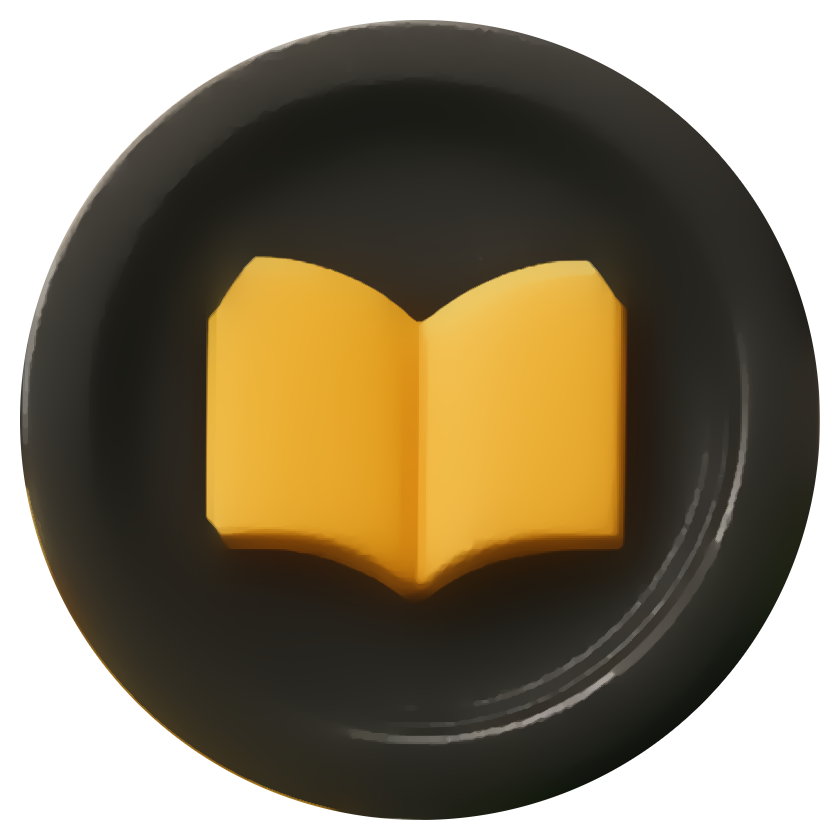
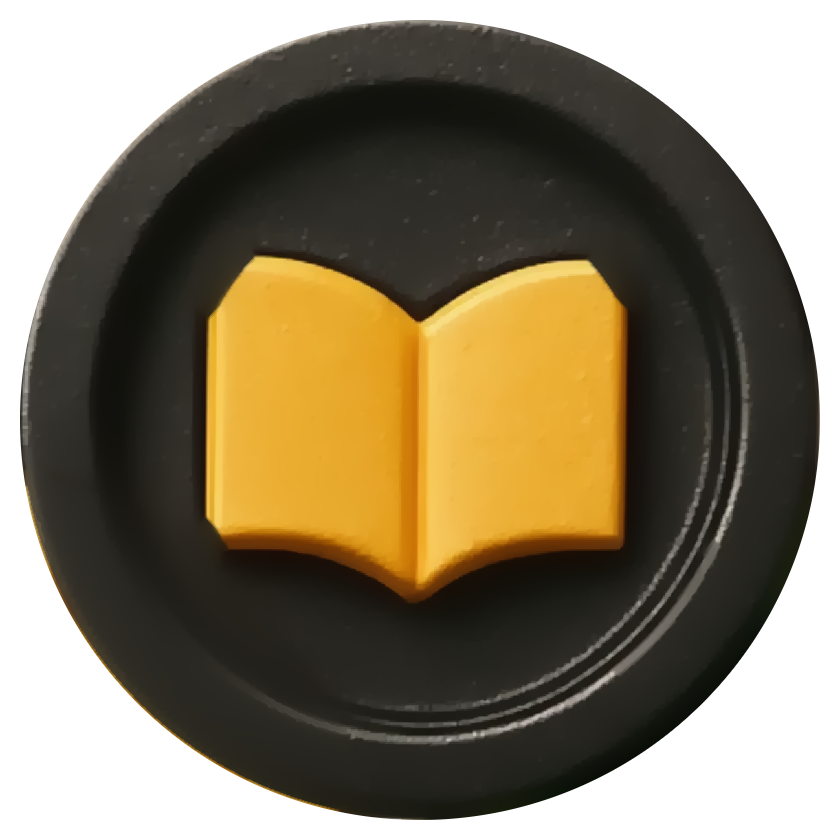
Revert "Monedele: granulatia scoasa complet din imaginea coapta"
This reverts commit 6bd98f285d42c0112400e89e7d7234b7de093a61.

diff --git a/assets-src/coins-original/smooth.py b/assets-src/coins-original/smooth.py
@@ -1,18 +1,16 @@
-"""Scoate complet granulatia 'coaja de portocala' coapta in sprite-urile monedelor, pastrand
-muchiile (inelul, desenul). Trei treceri de filtru edge-preserving (domain transform), din ce
-in ce mai fine, apoi un median care curata ce a mai ramas. Doar pe culoare; alfa ramane.
-Sursele originale stau in assets-src/coins-original."""
+"""Netezeste granulatia 'coaja de portocala' coapta in sprite-urile monedelor, pastrand muchiile
+(inelul, desenul). Filtru edge-preserving (domain transform) in doua treceri, doar pe culoare;
+alfa ramane neatins. Sursele originale stau in assets-src/coins-original."""
 import cv2, numpy as np, os
 src='D:/Teo/PNL/Site-uri/Olimpiada Liceelor/assets-src/coins-original'
 dst='D:/Teo/PNL/Site-uri/Olimpiada Liceelor/app/public/img/coins'
-ep=lambda x,s,r: cv2.edgePreservingFilter(x, flags=cv2.RECURS_FILTER, sigma_s=s, sigma_r=r)
 for f in sorted(os.listdir(src)):
     if not f.endswith('.png') or 'normal' in f: continue
     im=cv2.imread(os.path.join(src,f), cv2.IMREAD_UNCHANGED)
     bgr, a = im[:,:,:3], im[:,:,3]
     # pixelii transparenti sunt negri: ii umplem cu vecinii, altfel filtrul trage negru in inel
     bgr=cv2.inpaint(bgr, (a<8).astype(np.uint8), 3, cv2.INPAINT_TELEA)
-    out=ep(ep(ep(bgr,60,0.35),40,0.25),30,0.15)
-    out=cv2.medianBlur(out,5)
+    out=cv2.edgePreservingFilter(bgr, flags=cv2.RECURS_FILTER, sigma_s=40, sigma_r=0.20)
+    out=cv2.edgePreservingFilter(out, flags=cv2.RECURS_FILTER, sigma_s=30, sigma_r=0.12)
     cv2.imwrite(os.path.join(dst,f), np.dstack([out,a]), [cv2.IMWRITE_PNG_COMPRESSION,9])
     print(f, os.path.getsize(os.path.join(dst,f)))
